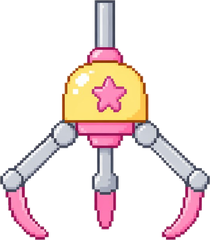
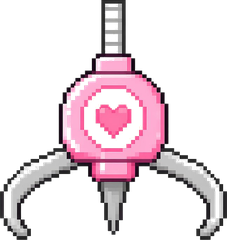
Replace crane claw art: pink body w/ heart + silver claws (cleaner pixel art). Render by height (52px) not width, so body stays same size whether open or closed.

diff --git a/src/screens/CraneGame.jsx b/src/screens/CraneGame.jsx
@@ -429,7 +429,8 @@ export default function CraneGame({ points, setPoints, onBack }) {
             }}
           />
 
-          {/* 집게 이미지 (clawPhase에 따라 open/closed 전환) */}
+          {/* 집게 이미지 (clawPhase에 따라 open/closed 전환)
+              - 높이 고정, 너비 auto: open/closed 이미지 종횡비가 달라도 body 크기 일정 */}
           <img
             src={clawPhase === 'closed' ? CLAW_CLOSED : CLAW_OPEN}
             alt=""
@@ -438,7 +439,8 @@ export default function CraneGame({ points, setPoints, onBack }) {
               left: `${cranePos}%`,
               top: `calc(${RAIL_TOP_PCT + CLAW_IDLE_OFFSET}% + ${craneDropY * DROP_MAX_PCT}%)`,
               transform: 'translateX(-50%)',
-              width: 46,
+              height: 52,
+              width: 'auto',
               imageRendering: 'pixelated',
               zIndex: 5,
             }}
